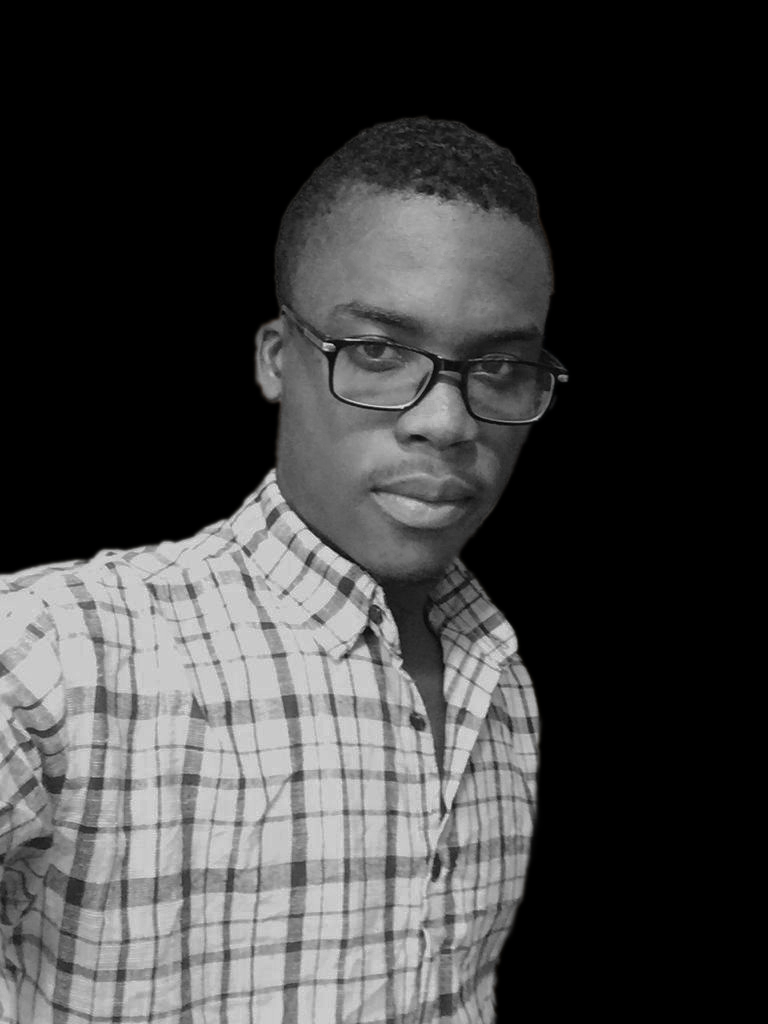
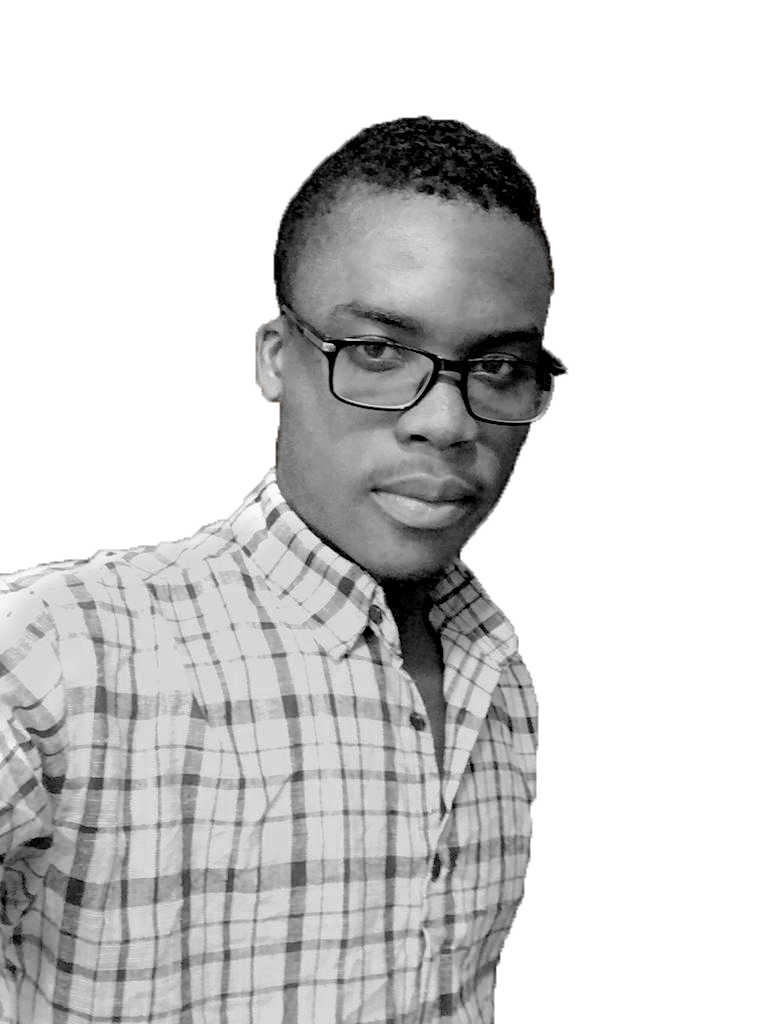
Nouvelle Mise à jour

diff --git a/index.html b/index.html
@@ -92,23 +92,22 @@
             <div class="row">
               <div class="home-info padd-15">
                 <h3 class="hello">
-                  Salut, je suis <span class="name">Iri Ange</span>
+                  Salut, je suis <span class="name">Iri Ange</span>,
                 </h3>
                 <h3 class="my-profession">
-                  Je suis <span class="typing">Développeur Fullsatck</span>
+                <span class="typing">Développeur Fullsatck</span>
                 </h3>
                 <p>
                   Je suis développeur Fullsatck avec plus de 3 ans
-                  d'experiences, Avec la réalisation de plusieurs projets web.
-                  J'ai pu acquerir pendant ce temps la compétence necessaire
-                  pour toujours satisfaire mes clients. Mon expertise se situe
-                  au niveau de la création des sites web responsives et
+                  d'experiences.
+                  Je vous aide à avoir une présence en ligne forte et permanente. 
+                  Mon expertise se situe au niveau de la création des sites web responsives et
                   intuitif, des applications cross platform et plus encore.
                 </p>
                 <a href="#contacts" class="btn svmw">Louer Mes services</a>
               </div>
               <div class="home-img padd-15">
-                <img src="./img/Hero2.png" alt="Moi" />
+                <img src="./img/Hero1.png" alt="Moi" />
               </div>
             </div>
           </div>
@@ -131,9 +130,9 @@
                       Mon parcours reflète ma passion pour l'innovation
                       numérique, depuis mes débuts en jonglant avec les langages
                       front-end et back-end pour créer des applications
-                      robustes, jusqu'à ma transition vers la gestion de
-                      communautés en ligne dynamiques. J'ai collaboré avec des
-                      startups agiles et des entreprises établies, toujours en
+                      web performant, jusqu'à ma transition vers la gestion de
+                      communautés en ligne dynamiques. J'ai eu la chance de collaborer avec des
+                      startups et des entreprises établies, toujours en
                       quête de nouvelles technologies et de solutions élégantes
                       pour les défis techniques. Mon rôle de community manager
                       m'a permis de cultiver des interactions significatives en
@@ -150,7 +149,7 @@
                   <div class="personal-info padd-15">
                     <div class="row">
                       <div class="info-item padd-15">
-                        <p>Email : <span>iriange.95@gmail.com</span></p>
+                        <p>Email : <span>iriange225@gmail.com</span></p>
                       </div>
                       <div class="info-item padd-15">
                         <p>Numero : <span>07 06169432</span></p>
@@ -168,7 +167,7 @@
                           >Télécharger Mon CV</a
                         >
                         <a href="#contacts" class="btn svmw"
-                          >Louer Mes services</a
+                          >Collaborons</a
                         >
                       </div>
                     </div>
@@ -345,20 +344,9 @@
                   </div>
                   <h4>Application Mobile</h4>
                   <p>
-                    Lorem ipsum dolor sit amet consectetur adipisicing elit.
-                    Culpa, est incidunt. Expedita.
-                  </p>
-                </div>
-              </div>
-              <div class="service-item padd-15">
-                <div class="service-item-inner">
-                  <div class="icon">
-                    <i class="fa fa-laptop-code"></i>
-                  </div>
-                  <h4>Site</h4>
-                  <p>
-                    Lorem ipsum dolor sit amet consectetur adipisicing elit.
-                    Culpa, est incidunt. Expedita.
+                    De plus en plus de personnes s'intéresse aux applications 
+                    en raison de sa facilité à effectuer une tâche, avoir accès à certain services gratuits et payants.
+                    Soyez dans les mains de tout le monde, avec une application moderne. 
                   </p>
                 </div>
               </div>
@@ -369,8 +357,7 @@
                   </div>
                   <h4>Web Designer</h4>
                   <p>
-                    Lorem ipsum dolor sit amet consectetur adipisicing elit.
-                    Culpa, est incidunt. Expedita.
+                    L'apparence de notre site est le premier reflet de notre entreprise, ce que nos clients voir en premier, elle doit être bien soigné. Donc créer un beau design pour son site aide considérablement à la croissance des visiteurs et à une augmentation des clients donc gain en <strong>notoriété.</strong>
                   </p>
                 </div>
               </div>
@@ -381,8 +368,7 @@
                   </div>
                   <h4>Site Web</h4>
                   <p>
-                    Lorem ipsum dolor sit amet consectetur adipisicing elit.
-                    Culpa, est incidunt. Expedita.
+                    Parlez de votre entreprise à tout le monde, soyez visible partout et à tout moment, soyez omniprésent.
                   </p>
                 </div>
               </div>
@@ -393,8 +379,7 @@
                   </div>
                   <h4>SEO</h4>
                   <p>
-                    Lorem ipsum dolor sit amet consectetur adipisicing elit.
-                    Culpa, est incidunt. Expedita.
+                    Concevoir un Site ne suffit pas si vous ne parvenez pas à toucher votre cible. Le reférencement naturel est un élément clé de votre stratégie de présence en ligne. Donc bien choisir les mot-clés pour réferencer son site permet d'être mieux indexé par les moteurs de recherche.  
                   </p>
                 </div>
               </div>
@@ -403,10 +388,10 @@
                   <div class="icon">
                     <i class="fa fa-bullhorn"></i>
                   </div>
-                  <h4>Marketing Digital</h4>
+                  <h4>Community Management</h4>
                   <p>
-                    Lorem ipsum dolor sit amet consectetur adipisicing elit.
-                    Culpa, est incidunt. Expedita.
+                    La gestion de la communauté sur ses différents canaux peut être une tâche fastidieuse: création de contenu engageante, répondre au commentaire, animé ses différents canaux ...
+                    Confiez cette tâche à un professionel et vous concentrez sur les autres aspects de votre entreprise (vente) peut être la meilleur des solutions.
                   </p>
                 </div>
               </div>
@@ -500,7 +485,7 @@
             <div class="row">
               <div class="contact-info-item padd-15">
                 <div class="icon"><i class="fa fa-phone"></i></div>
-                <h4>Appelez Moi Sur</h4>
+                <h4>Appelez-Moi </h4>
                 <p>+225 0706169432 / 0595085288</p>
               </div>
               <div class="contact-info-item padd-15">
@@ -511,10 +496,10 @@
               <div class="contact-info-item padd-15">
                 <div class="icon"><i class="fa fa-envelope"></i></div>
                 <h4>E-mail</h4>
-                <p>iriange.95@gmail.com</p>
+                <p>iriange225@gmail.com</p>
               </div>
             </div>
-            <h3 class="contact-title padd-15">ENVOYEZ MOI UN E-MAIL</h3>
+            <!-- <h3 class="contact-title padd-15">ENVOYEZ MOI UN E-MAIL</h3>
             <h4 class="contact-sub-title padd-15">
               JE VOUS REPONDRAIS PROMPTEMENT
             </h4>
@@ -568,11 +553,13 @@
                   </div>
                 </div>
               </form>
-            </div>
+            </div> -->
           </div>
         </section>
+        <footer>Copyright by IRI dev - &nbsp;<span></span></footer>
       </div>
     </div>
+
     <div class="style-switcher">
       <div class="style-switcher-toggle s-icon">
         <i class="fas fa-cog fa-spin"></i>

diff --git a/css/style.css b/css/style.css
@@ -4,6 +4,7 @@
     --bg-black-900: #f2F2fc;
     --bg-black-100: #fdf9ff;
     --bg-black-50: #e8dfec;
+    --bg-gradient : linear-gradient( #f1eef100 0% , #151515d2 100% );
     --text-black-900: #302e4d;
     --text-black-700: #504e70;
 }
@@ -12,6 +13,7 @@ body.dark {
     --bg-black-900: #151515;
     --bg-black-100: #222222;
     --bg-black-50: #393939;
+    --bg-gradient : linear-gradient(  #15151500 0% , #f1eef1de 100% );
     --text-black-900: #ffffff;
     --text-black-700: #e9e9e9;
 }
@@ -359,6 +361,13 @@ h3.my-profession {
     position: relative;
 }
 
+.home .home-img img {
+    height: 360px;
+    width: 300px;
+    object-fit: cover;
+    margin: auto;
+    border-radius: 5px;
+}
 .home .home-img::after {
     content: '';
     position: absolute;
@@ -367,7 +376,7 @@ h3.my-profession {
     border-bottom: 10px solid var(--skin-color);
     border-right: 10px solid var(--skin-color);
     right: -5px;
-    bottom: 40px;
+    bottom: 0;
 }
 
 .home .home-img::before {
@@ -381,14 +390,8 @@ h3.my-profession {
     top: -40px;
 }
 
-.home .home-img img {
-    height: 360px;
-    width: 300px;
-    object-fit: cover;
-    margin: auto;
-    border-radius: 5px;
-}
 
+/** Section des A propos **/
 
 .about .about-content {
     flex: 0 0 100%;
@@ -585,6 +588,8 @@ h3.my-profession {
     color: var(--text-black-700);
 }
 
+/** Section des Services **/
+
 .service .container {
     padding-bottom: 40px;
 }
@@ -644,6 +649,7 @@ h3.my-profession {
     line-height: 25px;
 }
 
+/** Section de mon Portfolio **/
 
 .portfolio .container {
     padding-bottom: 30px;
@@ -677,6 +683,42 @@ h3.my-profession {
     width: 100%;
     display: block;
 }
+
+.portfolio-img{
+    position: relative;
+    overflow: hidden;
+}
+.portfolio-img::before{
+    content: 'Bientôt Disponible !';
+    position: absolute;
+    display: flex;
+    font-weight: 700;
+    color: var(--bg-black-900);
+    justify-content: center;
+    align-items: center;
+    font-size: 1.5rem;
+    width: 100%;
+    height: 100%;
+    background: var(--bg-gradient);
+    z-index: 100;
+    transform: translateY(100%);
+    transition: transform .3s ease-in;
+}
+.portfolio-img:hover::before{
+    transform: translateY(0%);
+    animation: overlay .3s ease .3s 1 linear;
+}
+
+@keyframes overlay {
+    from{
+        transform: translateY(100%);
+    }
+    to{
+        transform: translateY(0%);
+    }
+}
+
+/** Section des gallery **/
 
 .gallery{
     width: 100%;
@@ -738,6 +780,9 @@ h3.my-profession {
     font-weight: 800;
     border-radius: 6px;
 }
+
+/** Section des contact **/
+
 .contact-title {
     color: var(--skin-color);
     text-align: center;
@@ -831,6 +876,14 @@ h3.my-profession {
 .contact .contact-form .btn {
     height: 50px;
     padding: 0 50px;
+}
+
+.main-content footer{
+    display: flex;
+    justify-content: center;
+    padding: 10px;
+    background: var(--bg-black-100);
+    color: var(--text-black-700);
 }
 
 

diff --git a/js/style-switcher.js b/js/style-switcher.js
@@ -36,7 +36,9 @@ function swicthTime() {
   }
 }
 swicthTime();
+
 const night = document.querySelector(".night");
+
 night.addEventListener("click", () => {
   night.querySelector("i").classList.toggle("fa-sun");
   night.querySelector("i").classList.toggle("fa-moon");
@@ -62,7 +64,6 @@ const observer = new IntersectionObserver(
         let currentProgress = parseInt(progress.getAttribute("data-progressStart"))
         let targetPercent = parseInt(progress.getAttribute("data-max"))
 
-        currentProgress = 0
 
         let interval = setInterval(function() {
           if (currentProgress >= targetPercent) {
@@ -70,10 +71,11 @@ const observer = new IntersectionObserver(
           } else {
               currentProgress++;
               progress.style.width = currentProgress + "%";
-              console.log(progress.style)
+              // console.log(progress.style)
               percents[index].innerHTML = currentProgress + "%";
           }
       }, 50)
+
       })
       observer.unobserve(rowAni);
       rowAni.classList.add("anime");

diff --git a/js/script.js b/js/script.js
@@ -3,6 +3,9 @@ let plus = document.querySelector(".plus");
 let counter = document.querySelector(".counter");
 let gallery = document.querySelector(".gallery");
 let navElementsActive = document.querySelectorAll(".aside .nav li a");
+let years = document.querySelector(".main-content footer span")
+
+years.innerHTML = new Date().getFullYear()
 
 navElementsActive.forEach((navElementActive) => {
   navElementActive.addEventListener("click", () => {
@@ -26,7 +29,7 @@ plus.addEventListener("click", function () {
   sessionStorage.setItem("nbGallerie", `${counter.innerHTML}`);
 });
 minus.addEventListener("click", function (e) {
-  if (counter.innerHTML <= 2) {
+  if (counter.innerHTML <= 2 || counter.innerHTML >= 5) {
     e.preventDefault();
     return;
   } else {
